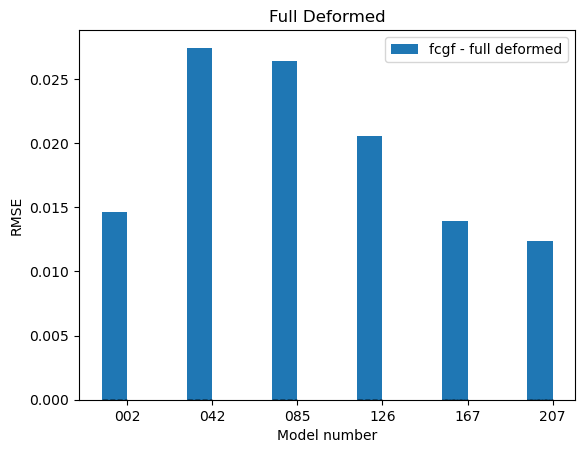
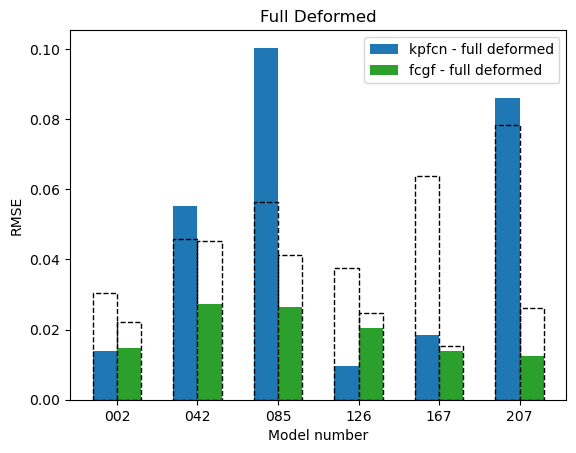
changing the shell

diff --git a/Testing/custom_filtering/aggregate_data_custom_filtering_rmse.py b/Testing/custom_filtering/aggregate_data_custom_filtering_rmse.py
@@ -2,6 +2,7 @@ import re
 import matplotlib.pyplot as plt
 import numpy as np
 import copy
+import numpy as np
 
 # Replaces the code in the all folder which also calculates the RMSE
 
@@ -49,34 +50,34 @@ elif preprocessing == 'none':
     weights = {
         'full_deformed' : {
             'kpfcn' : {
-                'conf' : '0.000001',
                 'adm' : 2.0,
                 'nc' : 500,
                 'epoch' : 10,
-                'conf' : '1e-06'
+                'conf_n' : '1e-06',
+                'conf' : '0.000001'
             },
             'fcgf' : {
-                'conf' : '0.000001',
                 'adm' : 2.0,
                 'nc' : 500,
                 'epoch' : 10,
-                'conf' : '1e-06'
+                'conf_n' : '1e-06',
+                'conf' : '0.000001'
             }
         },
         'partial_deformed' : {
             'kpfcn' : {
-                'conf' : '0.000001',
                 'adm' : 2.0,
                 'nc' : 500,
                 'epoch' : 5,
-                'conf' : '1e-04'
+                'conf_n' : '1e-04',
+                'conf' : '0.000001'
             },
             'fcgf' : {
-                'conf' : '0.000001',
                 'adm' : 2.0,
                 'nc' : 500,
                 'epoch' : 5,
-                'conf' : '1e-06'
+                'conf_n' : '1e-06',
+                'conf' : '0.000001'
             }
         }   
     }
@@ -96,8 +97,8 @@ for model_number in model_numbers:
 
         for feature_extractor in weights[training_data]:
             final_matrices[model_number][training_data][feature_extractor] = {}
-            final_matrices[model_number][training_data][feature_extractor]['initial'] = 0
-            final_matrices[model_number][training_data][feature_extractor]['final'] = 0
+            final_matrices[model_number][training_data][feature_extractor]['initial'] = np.nan
+            final_matrices[model_number][training_data][feature_extractor]['final'] = np.nan
 
 for training_data in weights:
     for feature_extractor in weights[training_data]:
@@ -136,7 +137,21 @@ for training_data in weights:
         
         if preprocessing == 'none':
 
-            file_txt = 'Testing/custom_filtering/test_astrivis_' + training_data + '_current_deformation_pre_' + preprocessing + '_' + feature_extractor + '_td_' + training_data + '_e_' +  weights[training_data][feature_extractor]['epoch'] + '_knn_False_conf_' + weights[training_data][feature_extractor]['conf'] + '.txt'
+            file_txt = 'Testing/custom_filtering/test_astrivis_' + training_data + '_current_deformation_pre_' + preprocessing + '_' + feature_extractor + '_td_' + training_data + '_e_' +  str(weights[training_data][feature_extractor]['epoch']) + '_knn_False_conf_' + weights[training_data][feature_extractor]['conf_n'] + '.txt'
+            file_txt = open(file_txt, 'r')
+            Lines = file_txt.readlines()
+            current_data_type = ''
+            model_number = None
+
+            for line in Lines:
+                if 'model' in line and len(line) < 100:
+                    words = line.split(' ')
+                    model_number = words[1]
+                
+                if 'RMSE' in line:
+                    list_rmse = re.findall("\d+\.\d+", line)
+                    rmse = list_rmse[0]
+                    final_matrices[model_number][training_data][feature_extractor]['initial']  = float(rmse)
 
 for training_data in weights:
     plt.clf()
@@ -151,6 +166,16 @@ for training_data in weights:
         
         bar = bars[count]
         weights_legend = feature_extractor + ' - ' + training_data.replace('_', ' ')
+        
+        if np.nan in rmse:
+            print(training_data)
+            print(feature_extractor)
+            print(rmse)
+        if np.nan in initial_rmse:
+            print(training_data)
+            print(feature_extractor)
+            print(initial_rmse)
+
         plt.bar(bar, rmse, width = barWidthPlot, label = weights_legend) 
         plt.bar(bar, initial_rmse, width = barWidthPlot, fill = False, linestyle='dashed', label='_nolegend_')
         count += 1
